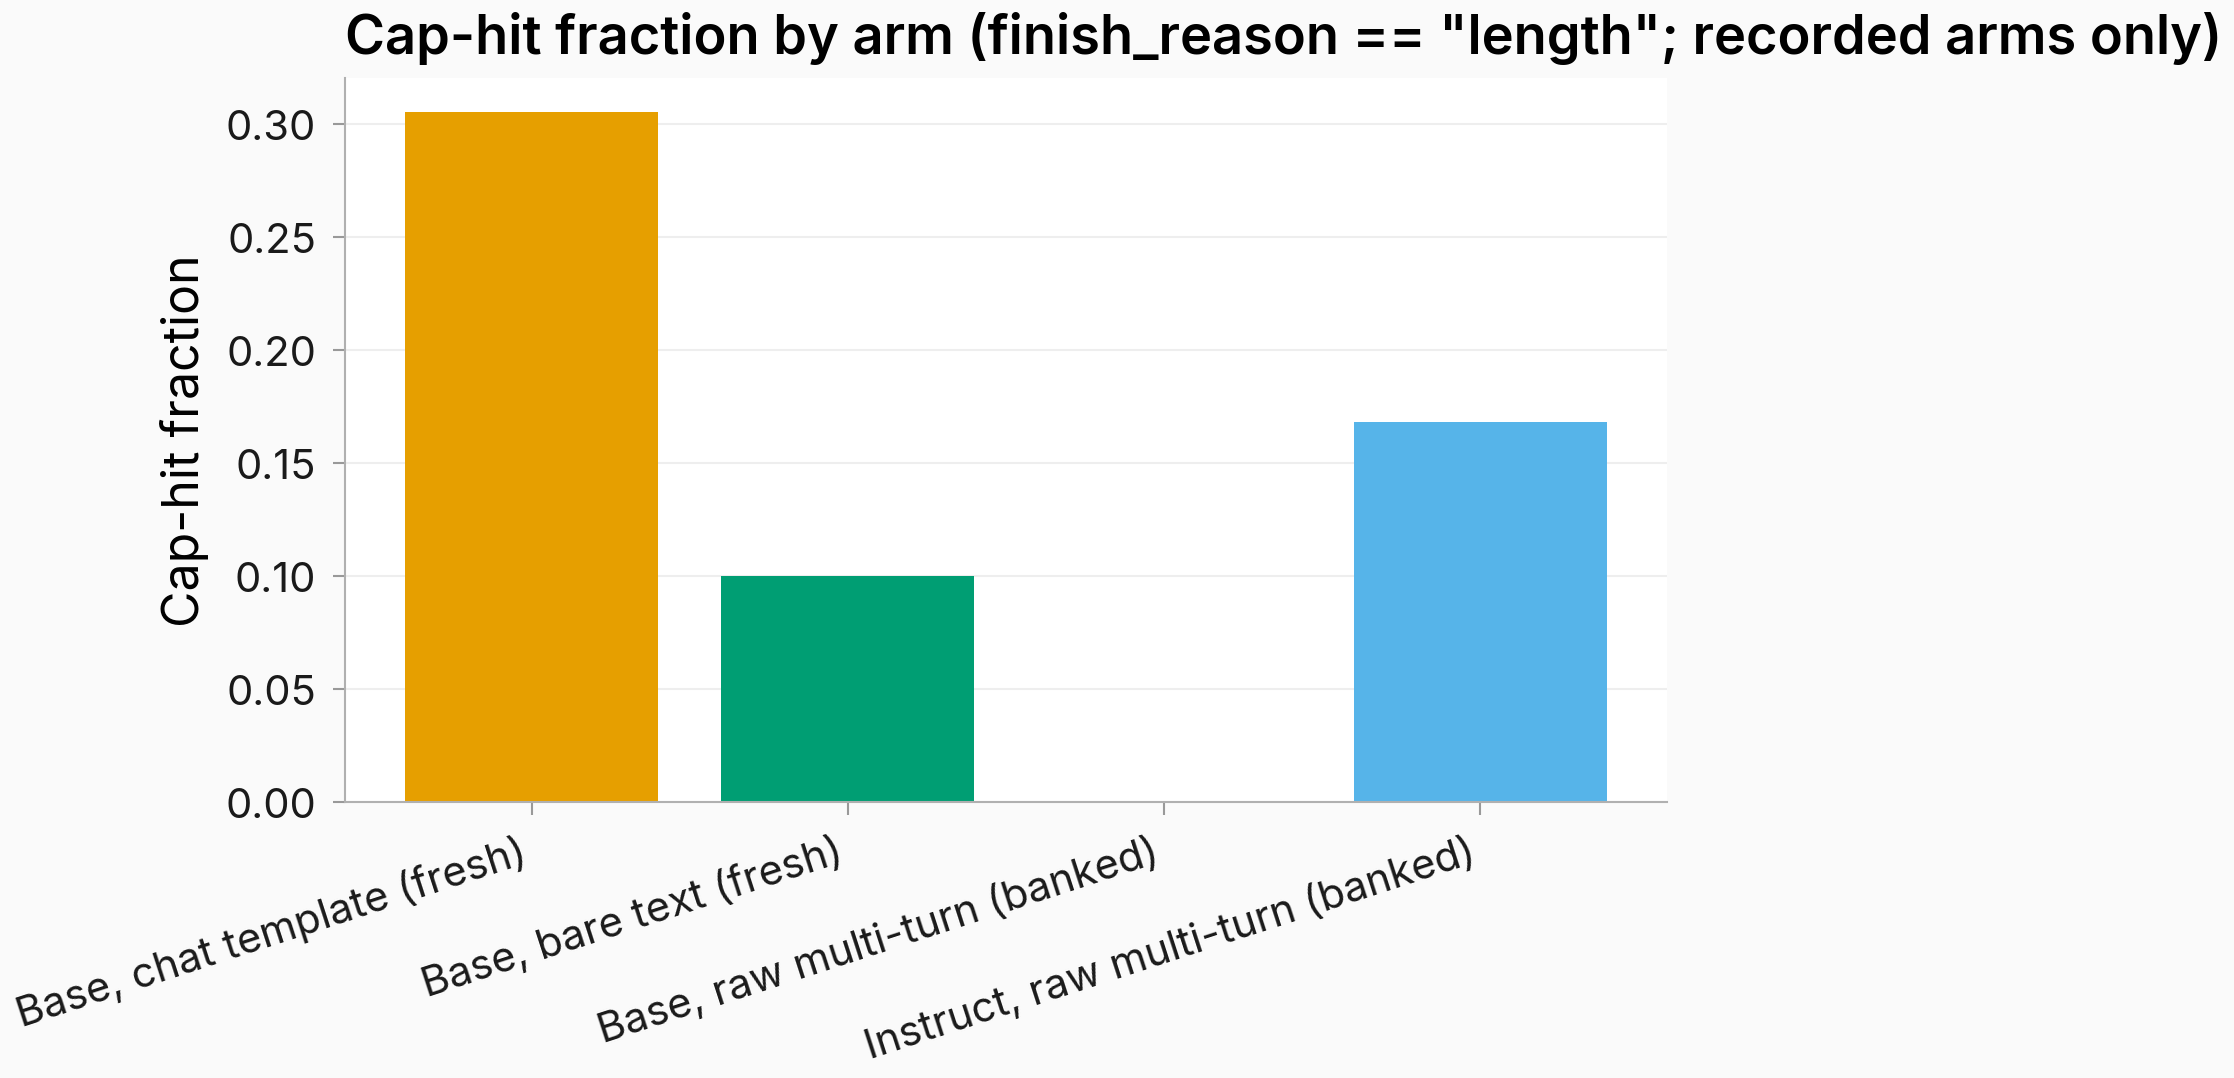
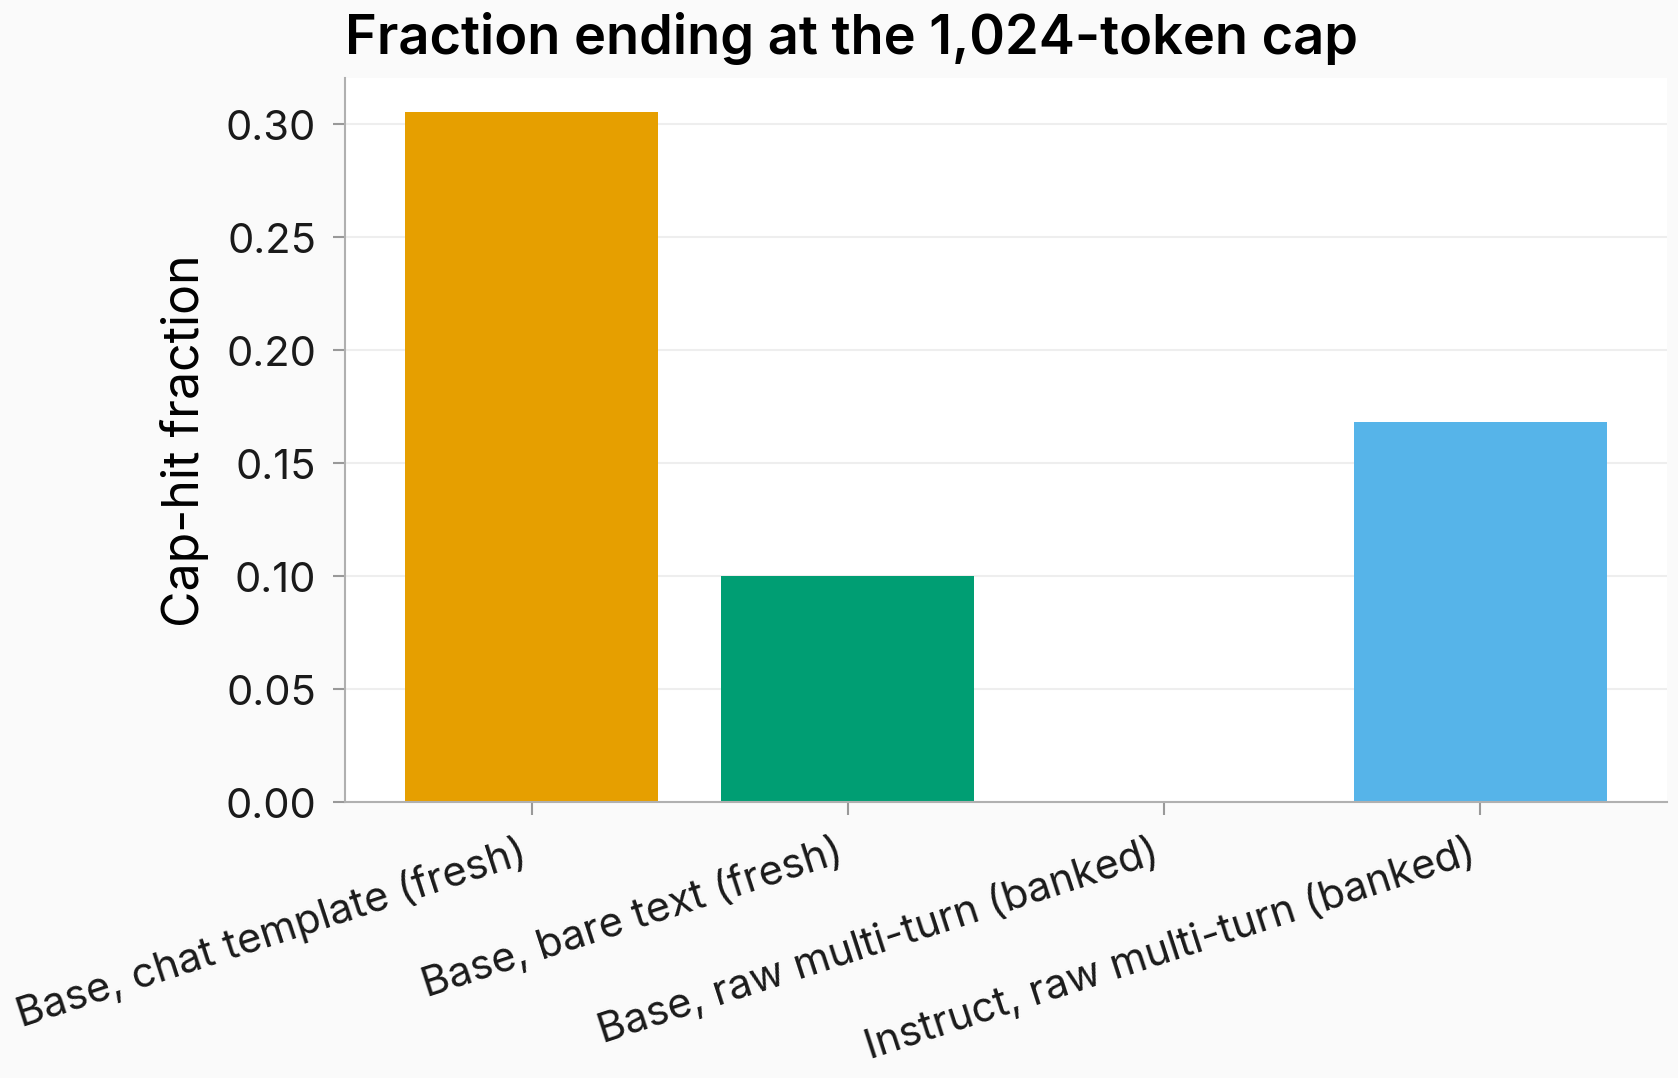
figures: issue #2477 r2 — reader-facing cap-hit figure title (Codex item 8)

diff --git a/scripts/issue2477_base_coherence.py b/scripts/issue2477_base_coherence.py
@@ -2143,7 +2143,7 @@ def _render_figures(payload: dict, out_dir: Path) -> list[Path]:
         ax.set_xticks(range(len(cap_arms)))
         ax.set_xticklabels([ARM_LABELS[n] for n in cap_arms], rotation=18, ha="right")
         ax.set_ylabel("Cap-hit fraction")
-        ax.set_title('Cap-hit fraction by arm (finish_reason == "length"; recorded arms only)')
+        ax.set_title("Fraction ending at the 1,024-token cap")
         _save(fig, "cap_hit_by_arm")
 
     # --- distinct-3gram vs judge score scatter -------------------------------
